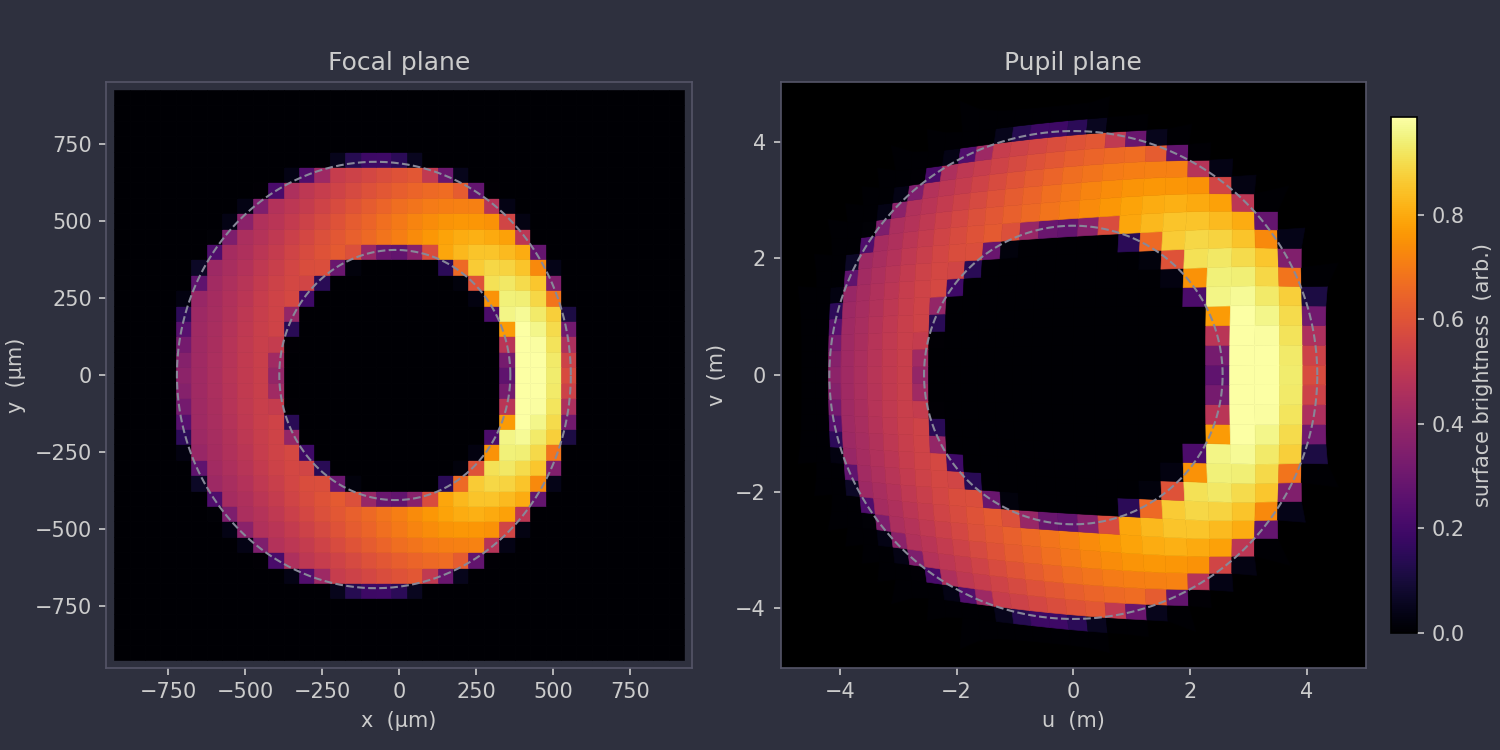
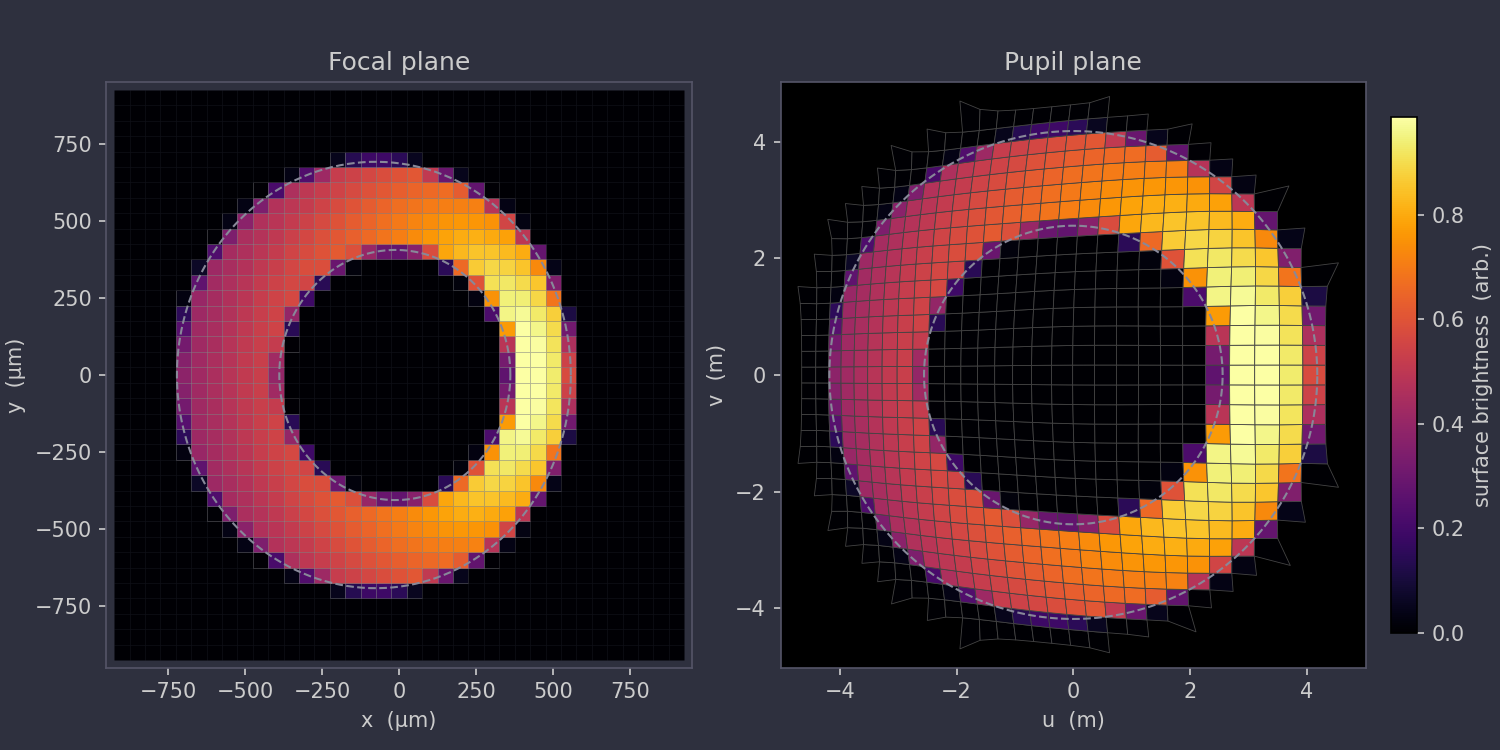
Add pixel mapping figures and TA vs OPD to model/index.md

Changed region(s): [[0.5213, 0.1533, 0.8893, 0.8587], [0.1227, 0.2147, 0.368, 0.7973]]

diff --git a/docs/figures/sensitivity_comparison.py b/docs/figures/sensitivity_comparison.py
@@ -1,0 +1,130 @@
+"""Figure: TA vs OPD sensitivity matrix comparison.
+
+For each of the ten rigid-body degrees of freedom of the Rubin telescope
+(M2: despace, decenter x/y, tilt x/y; camera: despace, decenter x/y,
+tilt x/y), computes the finite-difference Zernike sensitivity
+dW/d(dof) with both the TA and OPD wavefront definitions and renders
+them as a table.  Each cell shows "OPD (TA)" in nm per µm or µrad.
+Agreement confirms that Rubin's OPD-based sensitivity matrix is
+interchangeable with a TA-based one.
+
+Generates docs/figures/sensitivity_comparison_light.png and
+           docs/figures/sensitivity_comparison_dark.png.
+Run from the repo root:
+
+    (set -a && source .env && python docs/figures/sensitivity_comparison.py)
+"""
+
+import numpy as np
+import batoid
+
+# ---------------------------------------------------------------------------
+# Telescope and field-angle configuration  (mirrors spot_comparison.py)
+# ---------------------------------------------------------------------------
+telescope = batoid.Optic.fromYaml("LSST_r.yaml")
+wavelength = 620e-9
+thx, thy = 0.0, np.deg2rad(1.67)
+
+JMAX = 66
+EPS  = 0.612
+NX   = 255
+NRAD = 7
+NAZ  = int(NRAD * 2 * np.pi / (1 - EPS))
+
+# ---------------------------------------------------------------------------
+# Nominal wavefronts
+# ---------------------------------------------------------------------------
+def zta(tel):
+    return batoid.zernikeTA(
+        tel, thx, thy, wavelength,
+        jmax=JMAX, eps=EPS, focal_length=10.312,
+        reference="chief", projection="gnomonic",
+        nrad=NRAD, naz=NAZ,
+    ) * wavelength
+
+def zopd(tel):
+    return batoid.zernike(
+        tel, thx, thy, wavelength,
+        jmax=JMAX, eps=EPS, nx=NX,
+        reference="chief", projection="gnomonic",
+    ) * wavelength
+
+nom_ta  = zta(telescope)
+nom_opd = zopd(telescope)
+
+# ---------------------------------------------------------------------------
+# Degrees of freedom
+# ---------------------------------------------------------------------------
+D_SHIFT = 1e-6   # 1 µm for decenter / despace
+D_TILT  = 1e-6   # 1 µrad for tilt
+
+DOFS = [
+    ("M2\ndespace",    lambda d: telescope.withLocallyShiftedOptic("M2", [0, 0, d]),      D_SHIFT, False),
+    ("M2\ndecenter x", lambda d: telescope.withLocallyShiftedOptic("M2", [d, 0, 0]),      D_SHIFT, False),
+    ("M2\ndecenter y", lambda d: telescope.withLocallyShiftedOptic("M2", [0, d, 0]),      D_SHIFT, False),
+    ("M2\ntilt x",     lambda d: telescope.withLocallyRotatedOptic("M2", batoid.RotX(d)), D_TILT,  True),
+    ("M2\ntilt y",     lambda d: telescope.withLocallyRotatedOptic("M2", batoid.RotY(d)), D_TILT,  True),
+    ("Camera\ndespace",    lambda d: telescope.withLocallyShiftedOptic("LSSTCamera", [0, 0, d]),      D_SHIFT, False),
+    ("Camera\ndecenter x", lambda d: telescope.withLocallyShiftedOptic("LSSTCamera", [d, 0, 0]),      D_SHIFT, False),
+    ("Camera\ndecenter y", lambda d: telescope.withLocallyShiftedOptic("LSSTCamera", [0, d, 0]),      D_SHIFT, False),
+    ("Camera\ntilt x",     lambda d: telescope.withLocallyRotatedOptic("LSSTCamera", batoid.RotX(d)), D_TILT,  True),
+    ("Camera\ntilt y",     lambda d: telescope.withLocallyRotatedOptic("LSSTCamera", batoid.RotY(d)), D_TILT,  True),
+]
+
+# ---------------------------------------------------------------------------
+# Compute sensitivities (finite difference)
+# ---------------------------------------------------------------------------
+sensitivities = []   # list of (label, s_ta, s_opd, is_tilt)
+for label, perturb, delta, is_tilt in DOFS:
+    tel_p = perturb(delta)
+    s_ta  = (zta(tel_p)  - nom_ta)  / delta
+    s_opd = (zopd(tel_p) - nom_opd) / delta
+    sensitivities.append((label, s_ta, s_opd, is_tilt))
+
+j_idx = np.arange(4, JMAX + 1)
+
+
+# ---------------------------------------------------------------------------
+# Render markdown table
+# ---------------------------------------------------------------------------
+THRESHOLD   = 0.5                          # nm/unit — hide near-zero entries
+URAD_PER_ARCSEC = np.deg2rad(1/3600) / 1e-6  # ≈ 4.848
+
+
+def make_markdown_table():
+    scale = 1e3  # raw (m/m or m/rad) → nm/µm or nm/µrad
+
+    row_labels = [label.replace('\n', ' ') for label, _, _, _ in sensitivities]
+    all_ta  = np.array([s_ta[j_idx]  * scale for _, s_ta,  _, _ in sensitivities])
+    all_opd = np.array([s_opd[j_idx] * scale for _, _,  s_opd, _ in sensitivities])
+
+    # Convert tilt rows from nm/µrad → nm/arcsec
+    tilt_rows = [i for i, (_, _, _, is_tilt) in enumerate(sensitivities) if is_tilt]
+    all_ta[tilt_rows]  *= URAD_PER_ARCSEC
+    all_opd[tilt_rows] *= URAD_PER_ARCSEC
+
+    # Keep only Zernike terms where any DOF has significant sensitivity
+    max_abs = np.maximum(np.abs(all_ta), np.abs(all_opd)).max(axis=0)
+    sig    = max_abs > THRESHOLD
+    sig_j  = j_idx[sig]
+    sig_ta  = all_ta[:, sig]
+    sig_opd = all_opd[:, sig]
+
+    col_labels = [f"Z{j}" for j in sig_j]
+    n_dof, n_col = sig_ta.shape
+
+    header = "| DOF | " + " | ".join(col_labels) + " |"
+    sep    = "| --- |" + "".join(" ---: |" for _ in col_labels)
+    rows   = []
+    for i in range(n_dof):
+        cells = " | ".join(
+            f"{sig_opd[i,k]:.2f} ({sig_ta[i,k]:.2f})" for k in range(n_col)
+        )
+        rows.append(f"| {row_labels[i]} | {cells} |")
+
+    lines = [header, sep] + rows
+    return "\n".join(lines)
+
+
+if __name__ == "__main__":
+    print(make_markdown_table())

diff --git a/docs/figures/pixel_mapping.py b/docs/figures/pixel_mapping.py
@@ -104,7 +104,7 @@ def _pupil_corners(ix, iy):
     return np.column_stack([u, v])
 
 
-focal_patches, pupil_patches, brightness = [], [], []
+focal_patches, pupil_patches, brightness, valid_mask = [], [], [], []
 
 for j, iy in enumerate(pix_idx):
     for i, ix in enumerate(pix_idx):
@@ -113,11 +113,15 @@ for j, iy in enumerate(pix_idx):
         focal_patches.append(Polygon(fc, closed=True))
 
         pc = _pupil_corners(ix, iy)
-        if pc is None:
+        valid = pc is not None
+        if not valid:
             pupil_patches.append(Polygon(np.zeros((4, 2)), closed=True))
         else:
             pupil_patches.append(Polygon(pc, closed=True))
         brightness.append(b)
+        valid_mask.append(valid)
+
+valid_mask = np.array(valid_mask)
 
 brightness = np.array(brightness)
 vmax = np.percentile(brightness[brightness > 0], 98) if np.any(brightness > 0) else 1.0
@@ -125,8 +129,10 @@ vmax = np.percentile(brightness[brightness > 0], 98) if np.any(brightness > 0) e
 # ---------------------------------------------------------------------------
 # Color palettes
 # ---------------------------------------------------------------------------
-LIGHT = dict(bg='#FFFFFF', axis='#CCCCCC', text='#333333', ring='#999999')
-DARK  = dict(bg='#2e303e', axis='#555568', text='#cccccc', ring='#888899')
+LIGHT = dict(bg='#FFFFFF', axis='#CCCCCC', text='#333333', ring='#999999',
+             focal_edge=(0.6, 0.6, 0.6, 0.35), pupil_edge='#444444')
+DARK  = dict(bg='#2e303e', axis='#555568', text='#cccccc', ring='#888899',
+             focal_edge=(0.6, 0.6, 0.6, 0.35), pupil_edge='#444444')
 
 
 # ---------------------------------------------------------------------------
@@ -152,14 +158,17 @@ def draw_figure(c, output_path):
     ax_p.set_xlabel('u  (m)', color=c['text'])
     ax_p.set_ylabel('v  (m)', color=c['text'])
 
-    kw = dict(cmap='inferno', linewidths=0.3, edgecolors='face')
+    kw = dict(cmap='inferno', linewidths=0.4)
 
-    fp = PatchCollection(focal_patches, **kw)
+    # Only draw edges on focal patches that have flux (matching what's lit in pupil panel)
+    transparent = (0.0, 0.0, 0.0, 0.0)
+    focal_edges = [c['focal_edge'] if b > 0 else transparent for b in brightness]
+    fp = PatchCollection(focal_patches, edgecolors=focal_edges, **kw)
     fp.set_array(brightness)
     fp.set_clim(0, vmax)
     ax_f.add_collection(fp)
 
-    pp = PatchCollection(pupil_patches, **kw)
+    pp = PatchCollection(pupil_patches, edgecolors=c['pupil_edge'], **kw)
     pp.set_array(brightness)
     pp.set_clim(0, vmax)
     ax_p.add_collection(pp)

diff --git a/docs/model/index.md b/docs/model/index.md
@@ -256,3 +256,83 @@ choice for the maximum Noll index is 66.
   the choice of \(j_\text{max}=66\) as a good default for LSST.
   </figcaption>
 </figure>
+
+## Wavefront composition
+
+The total wavefront $W_\text{total}$ entering danish is the sum of
+several physically distinct contributions.
+
+### Danish model
+
+$$
+W_\text{total} = W_\text{TA,foc} + W_\text{defocus} + W_\text{dev}
+$$
+
+- **$W_\text{TA,foc}$** — the TA wavefront of the focused, aligned
+  telescope at the given field angle, computed via `batoid.zernikeTA()`
+  for the nominal telescope model.  This encodes the intrinsic
+  optical design, including field-angle-dependent aberrations.
+
+- **$W_\text{defocus}$** — the additional wavefront introduced by
+  intentionally shifting the detector (or camera) out of focus to
+  produce donut-shaped images.  It is primarily $Z_4$ (defocus), but a
+  rigid piston also perturbs higher-order terms.
+
+- **$W_\text{dev}$** — the deviation from nominal caused by
+  misalignments (decenter, despace, or tilt of optical elements) or
+  figure errors (mirror surface deformations).  This is the quantity
+  wavefront sensing aims to measure.
+
+### Rubin active-optics pipeline model
+
+The Rubin active-optics pipeline uses OPD Zernikes for its intrinsic
+telescope model, so it decomposes $W_\text{TA,foc}$ one step further:
+
+$$
+W_\text{total}
+  = W_\text{OPD,foc} + W_\text{off-axis} + W_\text{defocus} + W_\text{dev}
+$$
+
+where $W_\text{OPD,foc} + W_\text{off-axis} \equiv W_\text{TA,foc}$.
+$W_\text{OPD,foc}$ is the OPD wavefront of the nominal telescope
+(`batoid.zernike()`), and $W_\text{off-axis}$ is the field-angle-dependent
+difference between the TA and OPD representations — the same term whose
+size motivates using the TA wavefront in the first place (see the spot
+diagram comparison above).
+
+### Sensitivity matrix assumption
+
+Both models estimate $W_\text{dev}$ by projecting measured Zernike
+residuals onto a sensitivity matrix whose columns are
+$\partial W / \partial \mathrm{dof}$ for each mechanical degree of
+freedom (dof).  Rubin's sensitivity matrix is computed with the OPD
+definition of the wavefront.  This is valid only if
+
+$$
+\frac{\partial W_\text{TA}}{\partial \mathrm{dof}}
+\approx
+\frac{\partial W_\text{OPD}}{\partial \mathrm{dof}},
+$$
+
+i.e., the *response* of the wavefront to mechanical perturbations is
+the same regardless of which wavefront definition is used.  The table
+below tests this at a field angle of 1.675 deg for all ten rigid-body
+degrees of freedom of the Rubin telescope (five for M2, five for the
+camera).  Each cell shows OPD (TA) sensitivities; only Zernike terms
+with \(|s| > 0.5\) nm/unit appear.  Despace/decenter rows are in
+nm/µm; tilt rows are in nm/arcsec.  The close agreement confirms that
+the OPD-based sensitivity matrix is a valid substitute for a TA-based
+one.
+
+| DOF | Z4 | Z5 | Z6 | Z7 | Z8 |
+| --- | ---: | ---: | ---: | ---: | ---: |
+| M2 despace | 15.30 (15.33) | -0.00 (-0.00) | -0.04 (-0.09) | 0.14 (0.14) | 0.00 (0.00) |
+| M2 decenter x | -0.00 (-0.00) | 1.05 (1.05) | -0.00 (-0.00) | -0.00 (-0.00) | -0.64 (-0.64) |
+| M2 decenter y | 0.45 (0.45) | -0.00 (0.00) | -1.05 (-1.06) | -0.62 (-0.62) | -0.00 (-0.00) |
+| M2 tilt x | -13.30 (-13.34) | -0.00 (0.00) | 34.45 (34.57) | 20.53 (20.58) | -0.00 (0.00) |
+| M2 tilt y | -0.00 (-0.00) | 34.29 (34.37) | -0.00 (-0.00) | -0.00 (-0.00) | -20.43 (-20.48) |
+| Camera despace | 15.87 (15.90) | -0.00 (-0.00) | -0.04 (-0.09) | 0.35 (0.35) | -0.00 (0.00) |
+| Camera decenter x | 0.00 (0.00) | 0.09 (0.09) | 0.00 (0.00) | -0.00 (0.00) | 0.18 (0.18) |
+| Camera decenter y | -0.17 (-0.17) | -0.00 (-0.00) | -0.10 (-0.10) | 0.18 (0.18) | -0.00 (-0.00) |
+| Camera tilt x | 26.28 (26.34) | -0.00 (0.00) | -2.60 (-2.69) | -0.27 (-0.27) | -0.00 (0.00) |
+| Camera tilt y | 0.00 (0.00) | -2.53 (-2.53) | 0.00 (0.00) | -0.00 (-0.00) | 0.85 (0.85) |
